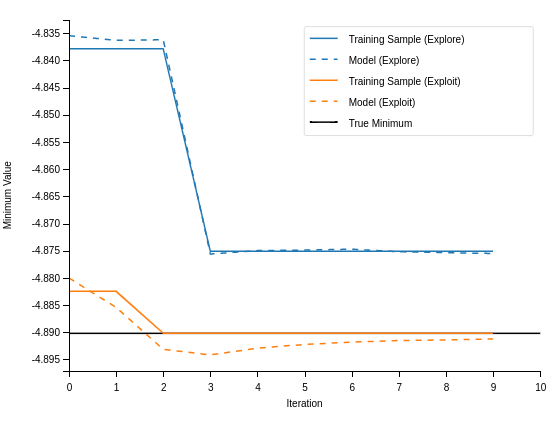
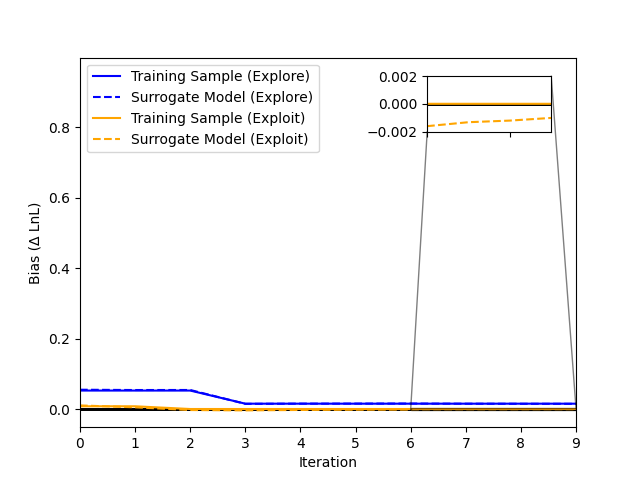
add regret

Changed region(s): [[0.0, 0.0615, 0.9855, 0.9835], [0.3388, 0.3688, 0.3696, 0.5225], [0.9547, 0.8913, 0.9855, 0.922]]

diff --git a/src/lnl_surrogate/plotting/regret_plots.py b/src/lnl_surrogate/plotting/regret_plots.py
@@ -1,0 +1,105 @@
+import matplotlib.pyplot as plt
+
+import pandas as pd
+import matplotlib.pyplot as plt
+from typing import Dict, List
+import plotly.graph_objects as go
+
+N_ZOOM = 3
+
+
+def plot_regret(data: pd.DataFrame, color: str = 'tab:blue', label: str = 'Regret', true_min=None,
+                fig=None, axes=[], yzoom=1) -> plt.Figure:
+    """
+    Plot the regret for the given results.
+    :param data: the results
+    :param outdir: the output directory
+    :return: None
+    """
+
+    if true_min is not None:
+        model_y = data.min_model - true_min
+        obs_y = data.min_obs - true_min
+        ylab = r'Bias (∆ LnL)'
+    else:
+        model_y = data.min_model
+        obs_y = data.min_obs
+        ylab = 'Minimum Value'
+
+    xlim = (0, len(data) - 1)
+
+    if fig is None:
+        fig, ax = plt.subplots()
+        ylim = (-yzoom, yzoom)
+        xzoom = (len(data) - N_ZOOM - 1, len(data) - 1)
+        axins = ax.inset_axes(
+            [0.7, 0.8, 0.25, 0.15], xlim=xzoom, ylim=ylim, xticklabels=[])
+        ax.indicate_inset_zoom(axins, edgecolor="black")
+        axins.set_xlim(*xzoom)
+        axes = [ax, axins]
+
+    if isinstance(fig, plt.Figure):
+        axes[0].plot(data.index, obs_y, label=f"Training Sample ({label})", color=color)
+        axes[0].plot(data.index, model_y, label=f'Surrogate Model ({label})', color=color, linestyle='dashed')
+        axes[0].set_xlabel('Iteration')
+        axes[0].set_ylabel(ylab)
+        axes[0].axhline(0, color='black', lw=2, zorder=-10)
+        axes[0].set_xlim(*xlim)
+
+        # inset axe to show last N iterations
+        idx = len(data) - N_ZOOM
+        axes[1].plot(data.index, obs_y, label=f"Training Sample ({label})", color=color)
+        axes[1].plot(data.index, model_y, label=f'Surrogate Model ({label})', color=color, linestyle='dashed')
+        axes[1].axhline(0, color='black', lw=2, zorder=-10)
+
+    elif isinstance(fig, go.Figure):
+        fig.add_trace(
+            go.Scatter(x=data.index, y=obs_y, mode='lines', name=f"Training Sample ({label})", line=dict(color=color)))
+        fig.add_trace(go.Scatter(x=data.index, y=model_y, mode='lines', name=f'Surrogate Model ({label})',
+                                 line=dict(color=color, dash='dash')))
+        fig.update_xaxes(title_text='Iteration')
+        fig.update_yaxes(title_text=ylab)
+        # change theme --> 'presentation'
+        fig.update_layout(shapes=[
+            dict(type='line', x0=min(data.index), y0=0, x1=max(data.index), y1=0, line=dict(color='black', width=2))],
+            xaxis=dict(range=xlim),
+            template='presentation'
+
+        )
+        axes = []
+
+    return fig, axes
+
+
+class RegretData:
+    def __init__(self, csv: str, label: str, color: str):
+        self.data = pd.read_csv(csv)
+        self.label = label
+        self.color = color
+
+    def __dict__(self):
+        return dict(data=self.data, label=self.label, color=self.color)
+
+
+def plot_multiple_regrets(regret_datasets: List[RegretData], true_min=None, fname='regret.png', yzoom=1):
+    # if fname ends with .html, use plotly else use matplotlib
+    interactive = fname.endswith('.html')
+
+    fig = go.Figure() if interactive else None
+    axes = None
+    for r in regret_datasets:
+        fig, axes = plot_regret(**r.__dict__(), true_min=true_min, fig=fig, axes=axes, yzoom=yzoom)
+
+    if interactive:
+
+        # add plotly legend
+        fig.update_layout(legend=dict(
+            yanchor="top",
+            y=0.99,
+            xanchor="left",
+            x=0.01
+        ))
+        fig.write_html(fname)
+    else:
+        axes[0].legend()
+        plt.savefig(fname)

diff --git a/docs/studies/plot_regret.py b/docs/studies/plot_regret.py
@@ -2,32 +2,15 @@ import pandas as pd
 import numpy as np
 import matplotlib.pyplot as plt
 from scipy.stats import norm
+from lnl_surrogate.plotting.regret_plots import plot_multiple_regrets, RegretData
 
+kwgs = dict(
+    regret_datasets=[
+        RegretData('regret_explore.csv', 'Explore', 'blue'),
+        RegretData('regret_exploit.csv', 'Exploit', 'orange'),
+    ],
+    true_min=norm(0.01, 0.003).logpdf(0.01) * -1.0,
+)
 
-
-def plot_regret(res: pd.DataFrame, color: str = 'tab:blue', label: str = 'Regret') -> plt.Figure:
-    """
-    Plot the regret for the given results.
-    :param res: the results
-    :param outdir: the output directory
-    :return: None
-    """
-    plt.plot(res.index, res.min_obs, label=f"Training Sample ({label})", color=color)
-    plt.plot(res.index, res.min_model, label=f'Model ({label})', color=color, linestyle='dashed')
-    plt.xlabel('Iteration')
-    plt.ylabel('Minimum Value')
-    return plt.gcf()
-
-regret_explore = pd.read_csv('regret_explore.csv')
-regret_exploit = pd.read_csv('regret_exploit.csv')
-fig = plot_regret(regret_explore, color='tab:blue', label='Explore')
-fig = plot_regret(regret_exploit, color='tab:orange', label='Exploit')
-
-xlim = [0, len(regret_explore)]
-NORM = norm(0.01, 0.003)
-true_y = NORM.logpdf(0.01) * -1.0
-plt.plot(xlim, [true_y, true_y], label='True Minimum', color='black', zorder=-10)
-plt.xlim(xlim)
-plt.legend()
-plt.show()
-
+plot_multiple_regrets(**kwgs, fname='regret.png', yzoom=0.002)
+plot_multiple_regrets(**kwgs, fname='regret.html')
